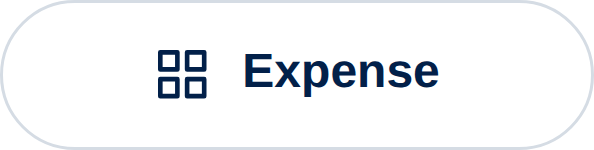
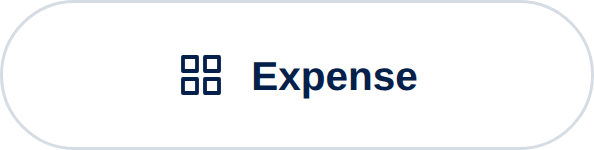
Match the row- set to the approved Sign-up-to-present button
The row- set was built with its own type scale (12.5px/15px icon), not
the one from gen_fit, so every button read 7% smaller than the
fit-signup-present button the office actually approved.

Type, icon and gap now come straight from gen_fit. row-signup-present
lands within a pixel of fit-signup-present (85/82 padding vs 85/83,
identical 45px ink height) and the other four inherit the same type.

Claude-Session: https://claude.ai/code/session_01YAQcUYpy57Up3cir28mVUA

Changed region(s): [[0.2424, 0.32, 0.7576, 0.6667]]

diff --git a/design/gen_snug.py b/design/gen_snug.py
@@ -13,21 +13,21 @@ LABELS = [("time-off","ft-form","Time off"), ("it-issue","tool","IT issue"),
           ("new-project","templates","New project"), ("expense","ft-sheet","Expense"),
           ("signup-present","calendar","Sign up to present")]
 W, H = 198, 50          # 3.96:1 -- the natural ratio of the longest label
-FS   = 16               # type is 32% of the pill height; 12.5 left the short
-                        # labels marooned in ~32px of dead white at each end.
-                        # 16 brings that down to ~14px and is the largest that
-                        # still leaves "Sign up to present" breathing room.
+# Type, icon and gap are lifted verbatim from gen_fit.py, because
+# fit-signup-present is the button the office signed off on. 198 is that
+# button's own natural width, so row-signup-present comes out identical to
+# it and every other label inherits its type size.
 CSS = """
 <link href="https://fonts.googleapis.com/css2?family=Montserrat:wght@600&display=swap" rel="stylesheet">
 <style>
  html,body{margin:0;padding:0;background:transparent}
  .wrap{display:inline-block;padding:6px}
  .pill{--ui:'Montserrat',-apple-system,'Segoe UI',Roboto,Arial,sans-serif;
-  box-sizing:border-box;display:flex;align-items:center;justify-content:center;gap:9.9px;
-  border-radius:999px;white-space:nowrap;font:600 16px var(--ui);font-family:var(--ui)}
+  box-sizing:border-box;display:flex;align-items:center;justify-content:center;gap:9px;
+  border-radius:999px;white-space:nowrap;font:600 13.5px var(--ui);font-family:var(--ui)}
  .pill.white{background:#fff;color:#022049;border:1.5px solid #D5DCE4}
  .pill.navy{background:#022049;color:#fff}
- .pill svg{width:19.5px;height:19.5px;fill:none;stroke-width:1.9;
+ .pill svg{width:16px;height:16px;fill:none;stroke-width:1.9;
    stroke-linecap:round;stroke-linejoin:round;flex:none}
  .pill.white svg{stroke:#022049}
  .pill.navy svg{stroke:#fff}
